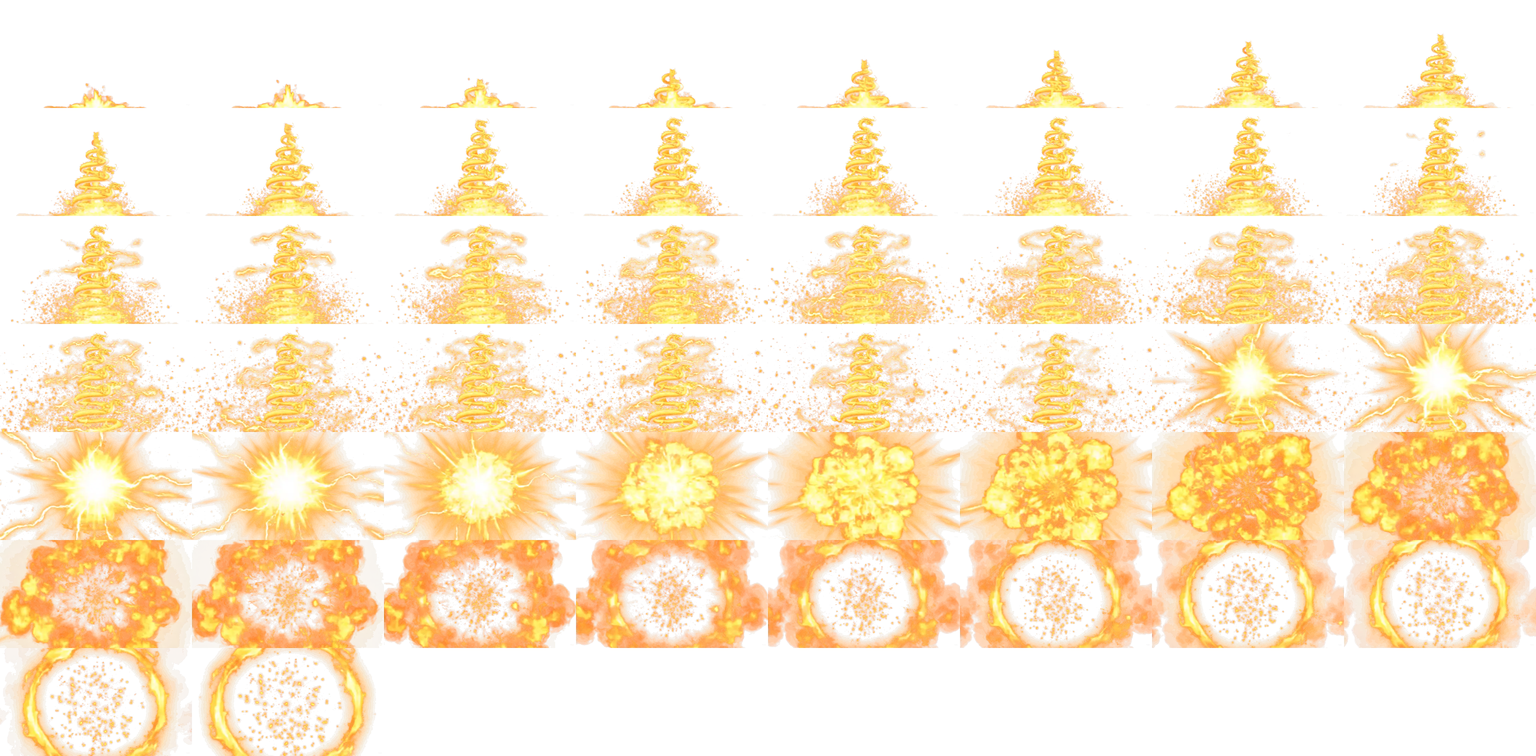
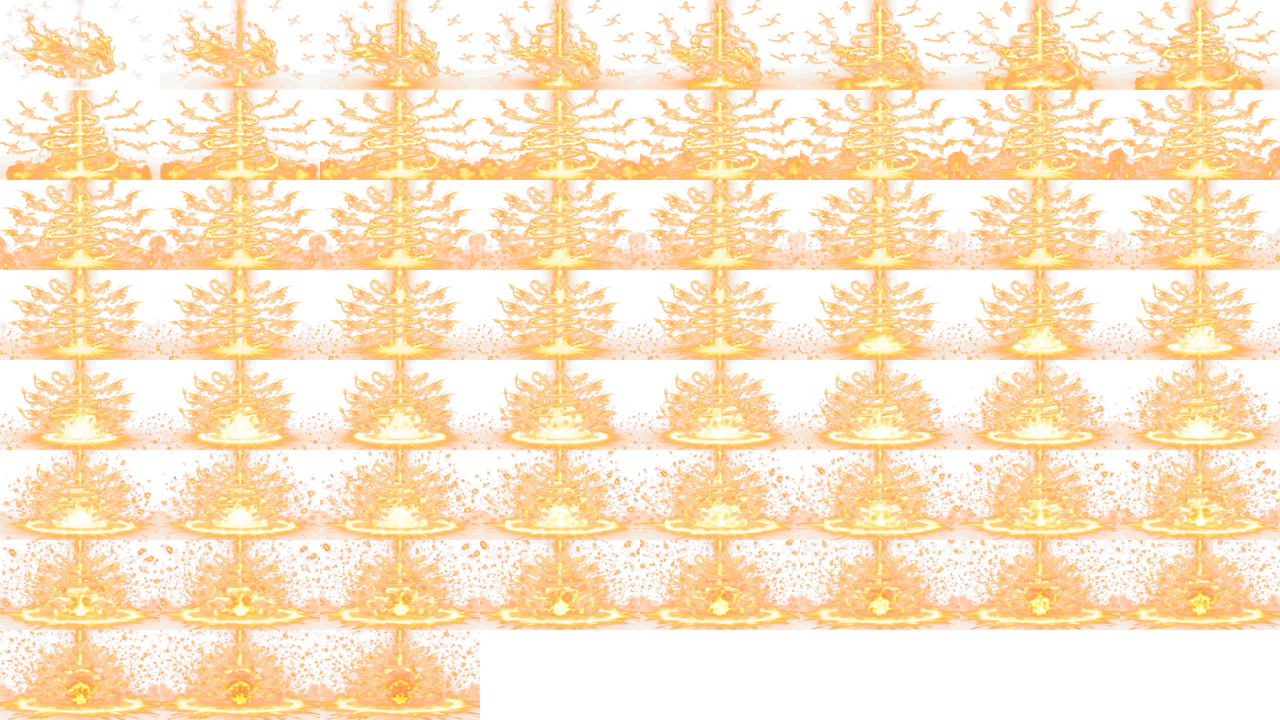
Nine Dragons Ascending Fist: the second design
A winged dragon for each one loosed; a pillar of light with dragons
coiling up it and a burst on the ground for the finale. Its own sounds.
Presentation only.

Claude-Session: https://claude.ai/code/session_018PQaDMQvGTR4dGrWvQ24VG

diff --git a/scripts/make_dragon_fx.py b/scripts/make_dragon_fx.py
@@ -1,5 +1,8 @@
-"""Build Nine Dragons Ascending Fist's moving effects from SHOAIB's two videos (Gemini / Veo, 1920 x 1080, 24 fps,
-golden light on pure black; docs/web.md "Nine Dragons, moving"):
+"""Build Nine Dragons Ascending Fist's moving effects from SHOAIB's video (Gemini / Veo, 1920 x 1080, 24 fps,
+golden light on pure black; docs/web.md "Nine Dragons, moving"). Since Nov 25 both come from his second design, one
+video: a winged golden dragon flies in (frames 0-36), a pillar of light rises with dragons coiling up it and
+swarming round (42-126), and a burst of light spreads on the ground under them (132, the blow). The first design
+(two videos: a wingless dragon, a coil that exploded) is described below as it was built:
 
 - fly: one golden dragon flying to the right, body undulating. The stretch where the whole dragon is in frame is cut
   into a strip that follows it (art/fx/tech/nine_dragons_fly.webp); fight.js plays it for each dragon loosed by a punch.
@@ -10,7 +13,7 @@ golden light on pure black; docs/web.md "Nine Dragons, moving"):
 Black becomes clear: each pixel's opacity is its brightness, its colour is kept at full strength, so the light lies
 over the scene as light does. Prints the entries for web/technique_fx.py (SHEETS).
 
-    python -m scripts.make_dragon_fx fly.mp4 finale.mp4
+    python -m scripts.make_dragon_fx fly.mp4 finale.mp4        (the same video twice for the second design)
 
 Needs ffmpeg, numpy and Pillow.
 """
@@ -24,11 +27,11 @@ from PIL import Image
 
 OUT = os.path.join(os.path.dirname(os.path.dirname(os.path.abspath(__file__))), "art", "fx", "tech")
 COLS = 8
-FLY = list(range(54, 86, 2))                       # the whole dragon in frame
+FLY = list(range(20, 36, 2))                       # the whole dragon in frame
 FLY_CELL = (400, 190)
-FINALE = list(range(0, 32, 2)) + list(range(34, 80, 4)) + list(range(82, 126, 2))
-BOOM = 84                                          # the video frame of the explosion
-FINALE_CELL = (480, 270)
+FINALE = list(range(38, 62, 2)) + list(range(64, 126, 4)) + list(range(126, 188, 2))
+BOOM = 132                                         # the video frame of the explosion
+FINALE_CELL = (400, 225)
 
 
 def frames(video, picks, size=None):

diff --git a/web/technique_fx.py b/web/technique_fx.py
@@ -34,11 +34,12 @@ TECH_FX = {
     "mountain_shattering_fist": {"motion": "fist", "play": "rise", "art": ["mountain_shattering_fist"]},
     "nine_dragons_ascending_fist": {"motion": "fist", "play": "dragons", "punches": [1, 2, 3, 3],    # nine in all
                                     # moving, from SHOAIB's videos (scripts/make_dragon_fx.py): one dragon flying, played
-                                    # for each dragon loosed; and the finale, the dragons coiling up and exploding
+                                    # for each dragon loosed; and the finale (his second design, Nov 25): a pillar of light, dragons coiling up it
+                                    # and swarming round, a burst on the ground
                                     # (`boom`: the frame of the explosion, where the damage lands)
                                     "art": ["nine_dragons_finale", "nine_dragons_fly"],
-                                    "sheets": {"fly": {"frames": 16, "cols": 8, "rows": 2},
-                                               "finale": {"frames": 50, "cols": 8, "rows": 7, "boom": 29, "anchor": [0.5, 0.99],
+                                    "sheets": {"fly": {"frames": 8, "cols": 8, "rows": 1},
+                                               "finale": {"frames": 59, "cols": 8, "rows": 8, "boom": 31, "anchor": [0.5, 0.94],
                                                           "sound": "dragons", "lead": 520}}},
     # the palm techniques, from SHOAIB's designs (Gemini), all played with the palm push
     "twin_palm_strike": {"motion": "palm", "play": "prints", "art": ["twin_palm_strike_1", "twin_palm_strike_2"]},

diff --git a/docs/web.md b/docs/web.md
@@ -440,6 +440,9 @@ a lair is fought with `bot/hunt.py`.
      plays them. Sound from the videos: a roar per punch (`cast:dragon`), the rising (`gather:dragons`) and the
      explosion (`boom:dragons`). Presentation only.
      (The black bars were removed the same day at SHOAIB's ask: the length stays, the bars go.)
+     **Second design (Nov 25).** SHOAIB redrew it as one video: a winged golden dragon (the dragons loosed, 8
+     frames), then a pillar of light with dragons coiling up it and swarming round, and a burst on the ground (the
+     finale, 59 frames; the blow lands on the burst). Same script, same rules, its own three sounds re-cut.
      **A cutscene (Nov 24).** Nine Dragons now plays as one (`cutscene` in `fight.js`, `CUT`), about 6.6 s: black
      bars close in (`.tcine`), "Heaven Technique" and its name are written large across the scene (`.tcard`, 1.1 s)
      , the four punches come 1.4 times slower, and the finale plays at 60 ms a frame. (The camera zoom it first
